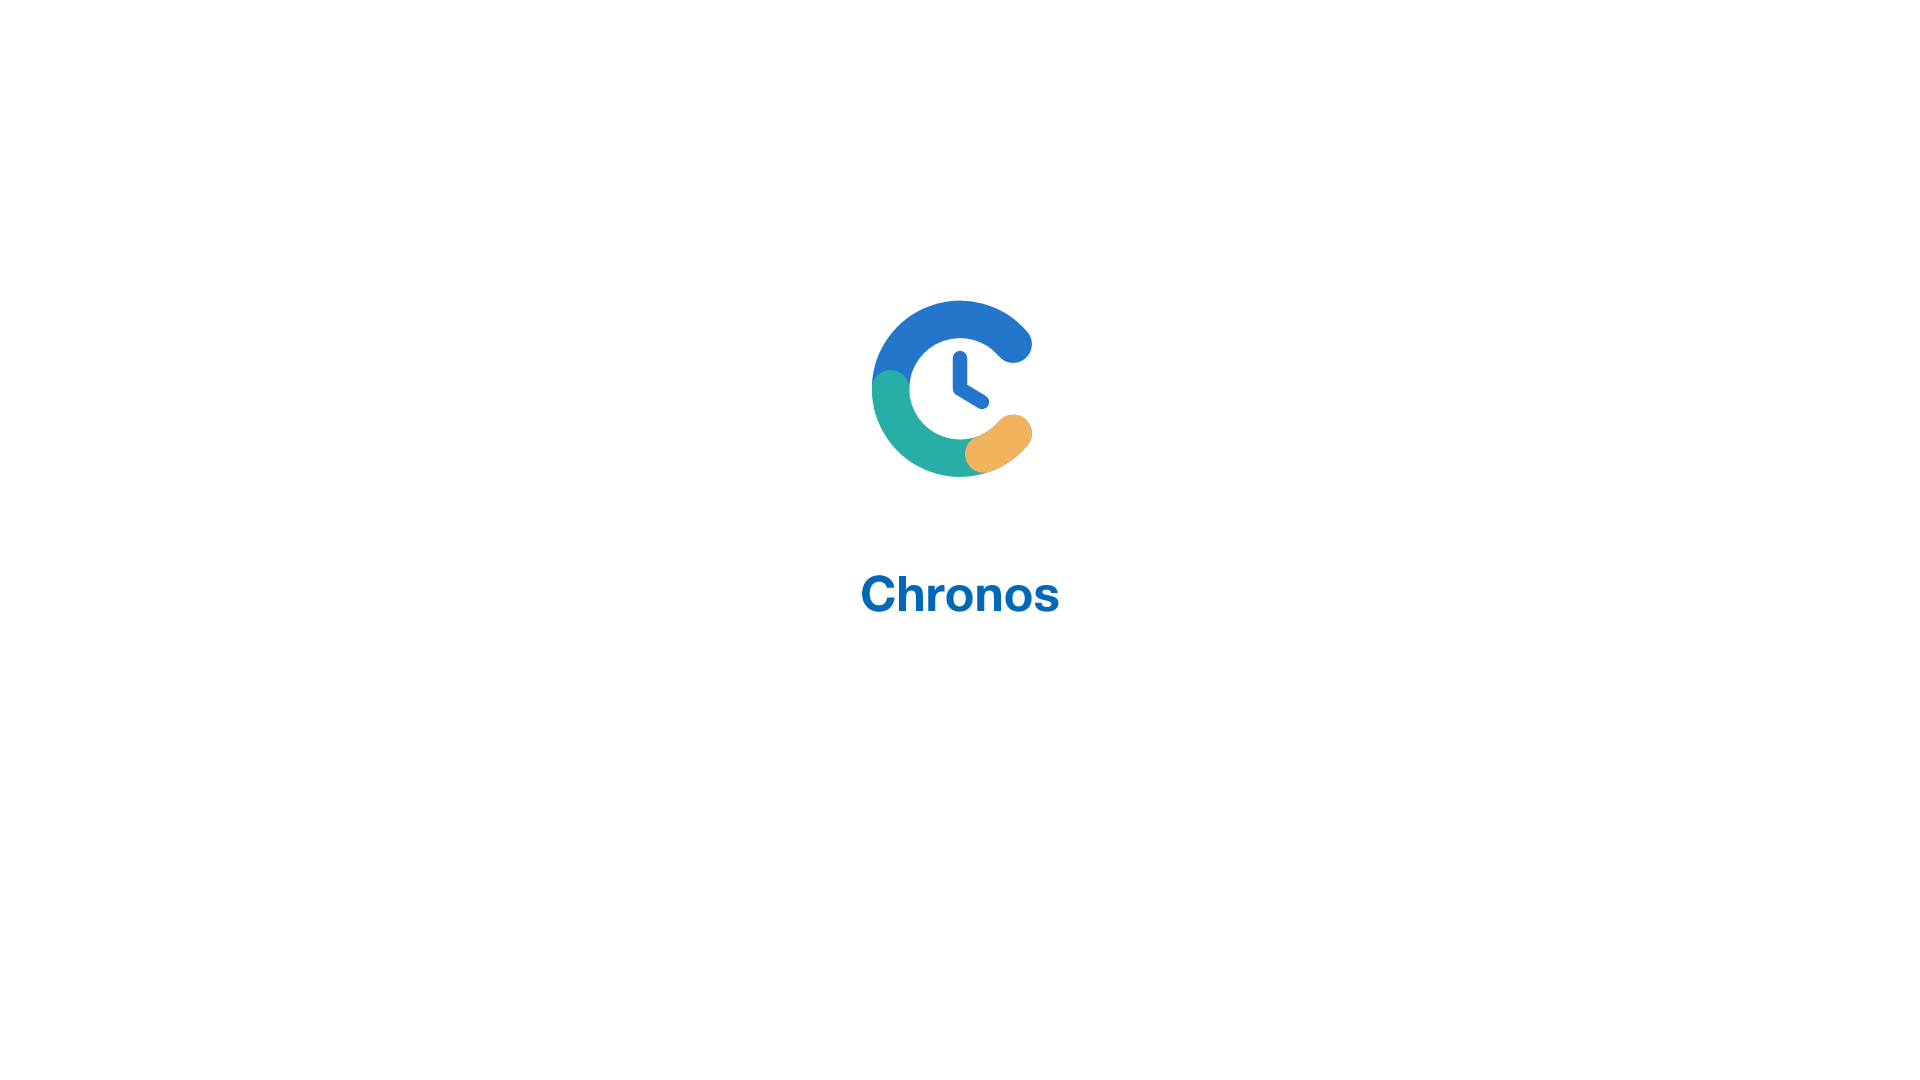
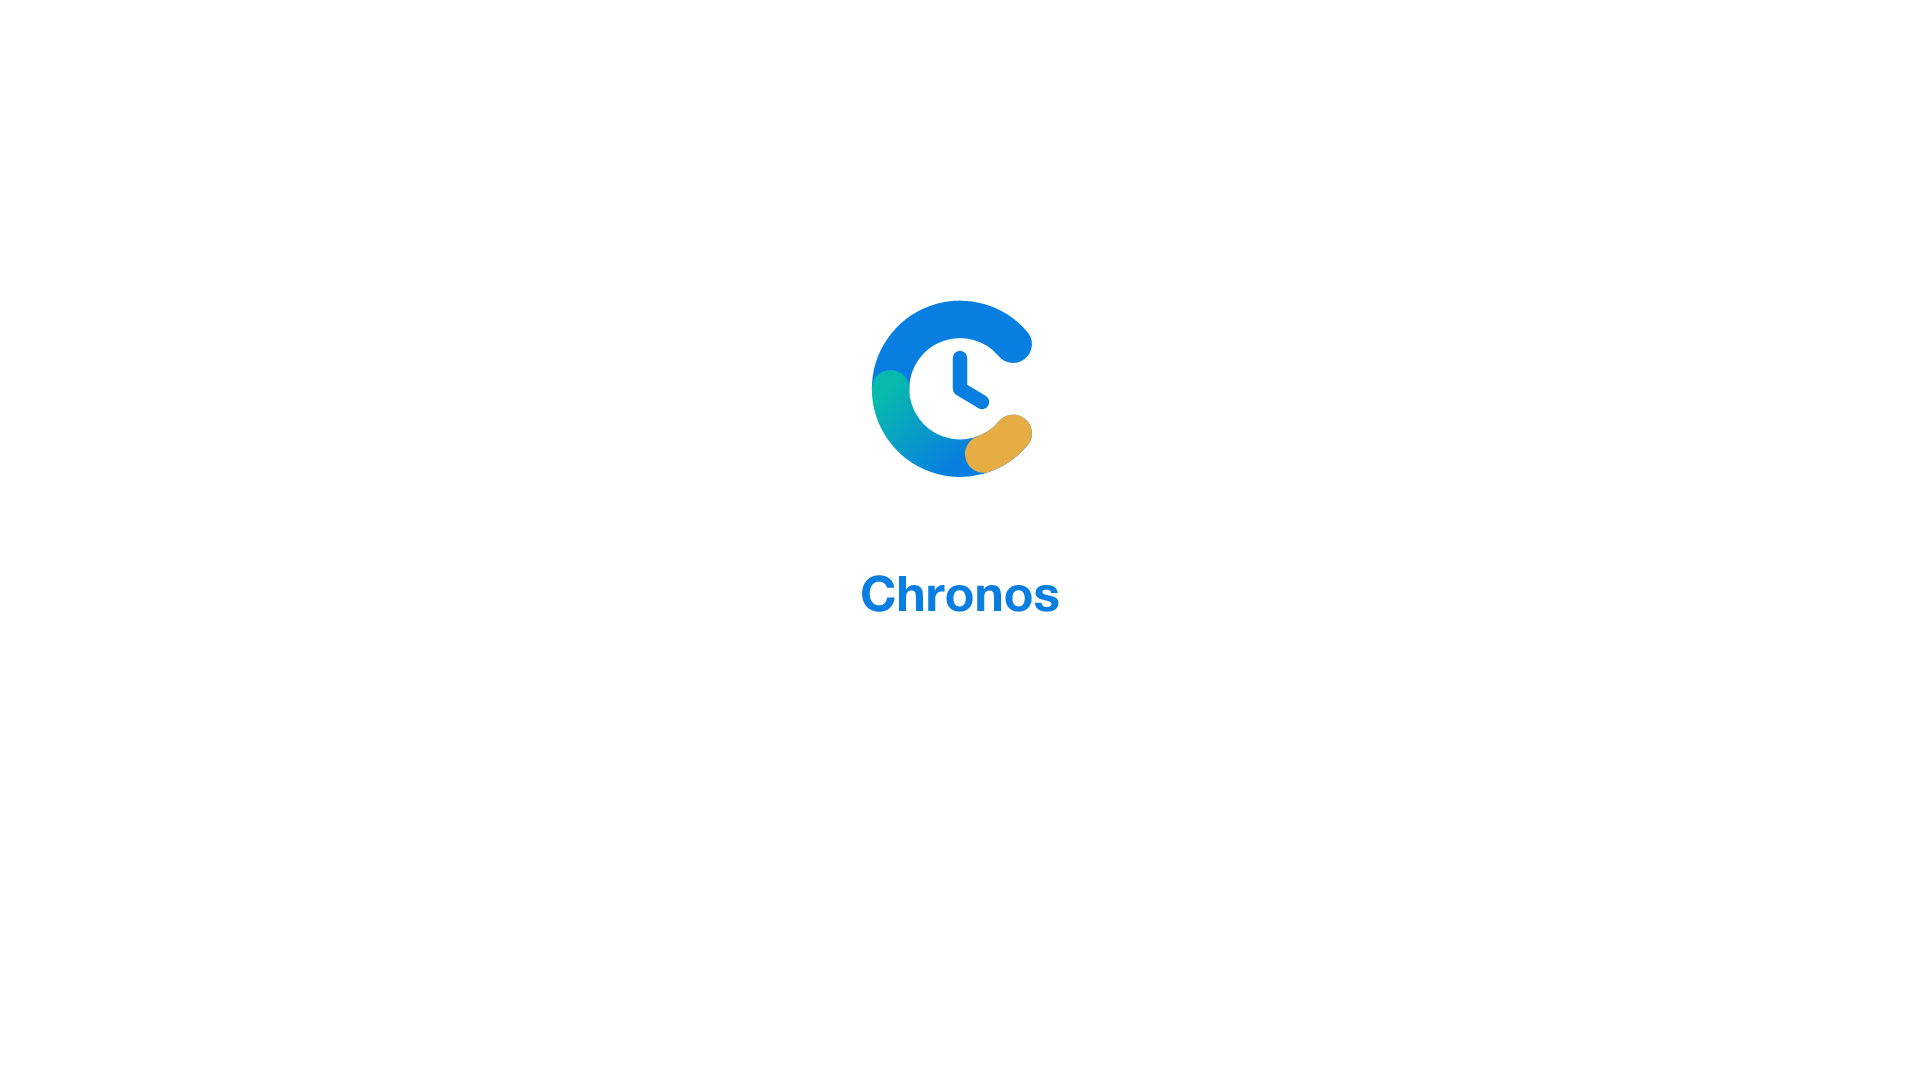
🎨 统一图标配色并更新应用资源

Changed region(s): [[0.4375, 0.275, 0.5625, 0.4583], [0.4375, 0.5194, 0.5625, 0.5806]]

diff --git a/scripts/generate-icons.ts b/scripts/generate-icons.ts
@@ -11,7 +11,7 @@ const androidRes = resolve(root, 'apps/mobile/android/app/src/main/res');
 
 const BG = '#FFFFFF';
 const ANDROID_NIGHT_BG = '#18212B';
-const BRAND = '#0068B7';
+const BRAND = '#087FE0';
 const SOURCE_VIEWBOX = 108;
 /** Maskable safe zone: keep artwork inside the central ~80%. */
 const MASKABLE_SAFE_RATIO = 0.8;

diff --git a/apps/web/src/lib/content/releases/entries/v1.2.10.md b/apps/web/src/lib/content/releases/entries/v1.2.10.md
@@ -6,5 +6,5 @@ androidUpdateUrl: https://github.com/UE-DND/Chronos/releases/latest
 
 ## 优化
 
-- 调整 Android 桌面图标留白，改善图标在启动器中的显示比例。
+- 统一图标配色并调整 Android 桌面图标留白，更新 PWA 与 Android 图标资源。
 - 同步 Android 原生工程的 Capacitor 插件引用路径，使其与当前依赖版本一致。
